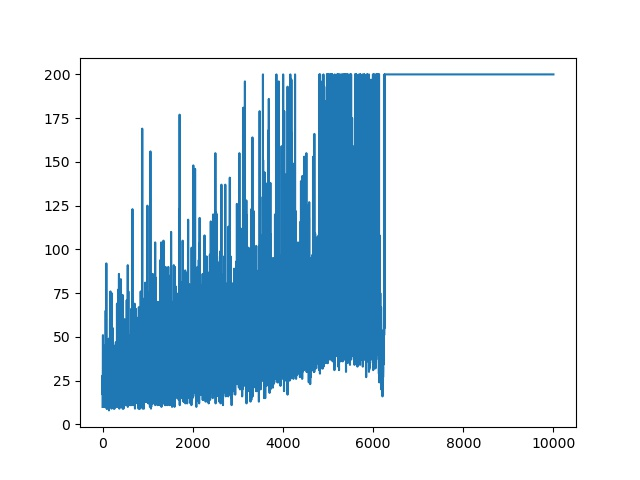
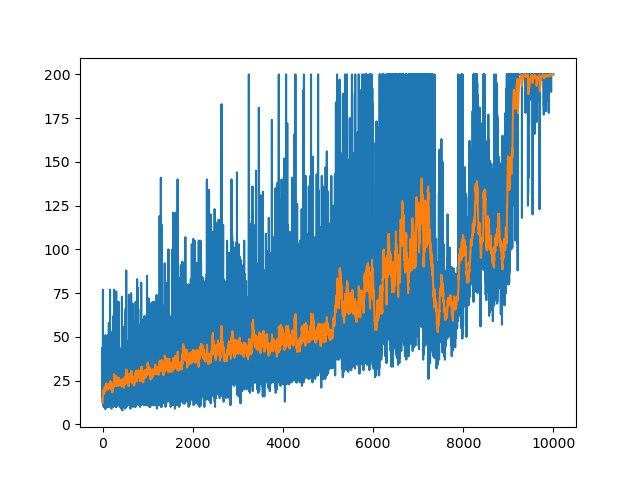
DQN is good

Changed region(s): [[0.1562, 0.125, 0.875, 0.875]]

diff --git a/train_DQN.py b/train_DQN.py
@@ -3,24 +3,13 @@ from network import DQN_Agent
 from vars import *
 import matplotlib.pyplot as plt
 import copy
+from statsmodels.tsa.api import SimpleExpSmoothing
 
 env = gym.make('CartPole-v0')
 input_dim = env.observation_space.shape[0]
 output_dim = env.action_space.n
 agent = DQN_Agent(seed=1423, layer_sizes=[input_dim, 64, output_dim], lr=LR, sync_freq=SYNC_FREQ, exp_replay_size=EXP_REPLAY_SIZE, gamma=GAMMA)
-   
-index = 0
-for i in range(EXP_REPLAY_SIZE):
-    obs = env.reset()
-    done = False
-    while (not done):
-        A = agent.get_action(obs, env.action_space.n, epsilon=1)
-        obs_next, reward, done, _ = env.step(A.item())
-        agent.collect_experience([obs, A.item(), reward, obs_next])
-        obs = obs_next
-        index += 1
-        if(index > EXP_REPLAY_SIZE):
-            break
+agent.initialize(env)
             
 durations = []
 index = EXP_REPLAY_SIZE / 2
@@ -40,18 +29,19 @@ for i in range(N_EPISODES):
         
         if(index > EXP_REPLAY_SIZE / 2):
             index = 0
-            for j in range(4):
+            for _ in range(4):
                 loss = agent.train(batch_size=BATCH_SIZE)
 
     if epsilon > EPS_END:
         epsilon -= (1 / EPS_DECAY)
 
     durations.append(duration)
-    if duration > max(durations):
-        print('hello')
+    if duration >= max(durations):
         best_agent = copy.deepcopy(agent)
 
+fit1 = SimpleExpSmoothing(durations, initialization_method="heuristic").fit(smoothing_level=0.05, optimized=False)
 plt.plot(durations)
+plt.plot(fit1.fittedvalues)
 plt.savefig('hello.jpg')
 plt.close()
 
@@ -62,4 +52,4 @@ for i in range(10):
         A =  best_agent.get_action(obs, env.action_space.n, epsilon = 0)
         obs, reward, done, _ = env.step(A.item())
         r += 1
-    print(r)
+    print(f'episode {i}, duration {r}.')

diff --git a/network.py b/network.py
@@ -16,15 +16,29 @@ class DQN_Agent:
         self.network_sync_freq = sync_freq
         self.network_sync_counter = 0
         self.gamma = torch.tensor(gamma).float()
-        self.experience_replay = deque(maxlen = exp_replay_size)  
-        return
+        self.exp_replay_size = exp_replay_size
+        self.experience_replay = deque(maxlen=exp_replay_size)  
+
+    def initialize(self, env):
+        index = 0
+        for _ in range(self.exp_replay_size):
+            obs = env.reset()
+            done = False
+            while (not done):
+                A = self.get_action(obs, env.action_space.n, epsilon=1)
+                obs_next, reward, done, _ = env.step(A.item())
+                self.collect_experience([obs, A.item(), reward, obs_next])
+                obs = obs_next
+                index += 1
+                if(index > self.exp_replay_size):
+                    break
         
     def build_nn(self, layer_sizes):
         assert len(layer_sizes) > 1
         layers = []
         for index in range(len(layer_sizes)-1):
             linear = nn.Linear(layer_sizes[index], layer_sizes[index+1])
-            act =    nn.Tanh() if index < len(layer_sizes)-2 else nn.Identity()
+            act = nn.Tanh() if index < len(layer_sizes)-2 else nn.Identity()
             layers += (linear,act)
         return nn.Sequential(*layers)
     
@@ -48,7 +62,6 @@ class DQN_Agent:
     
     def collect_experience(self, experience):
         self.experience_replay.append(experience)
-        return
     
     def sample_from_experience(self, sample_size):
         if(len(self.experience_replay) < sample_size):
